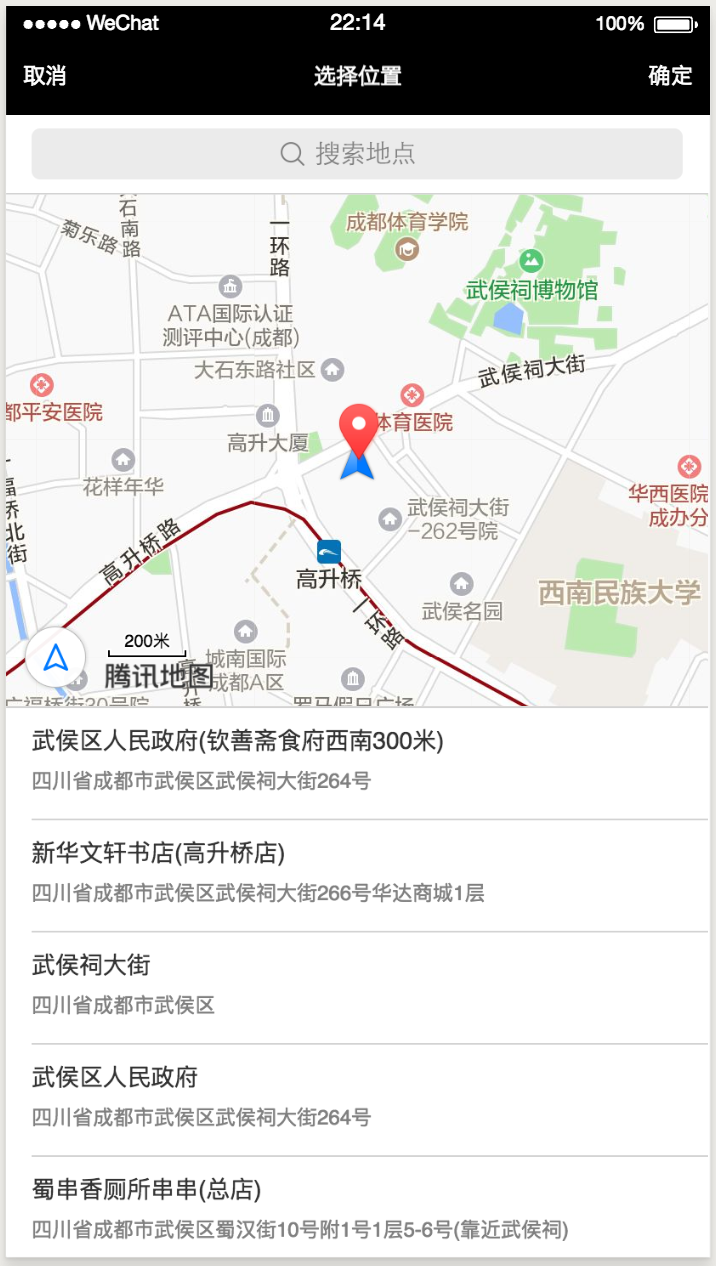
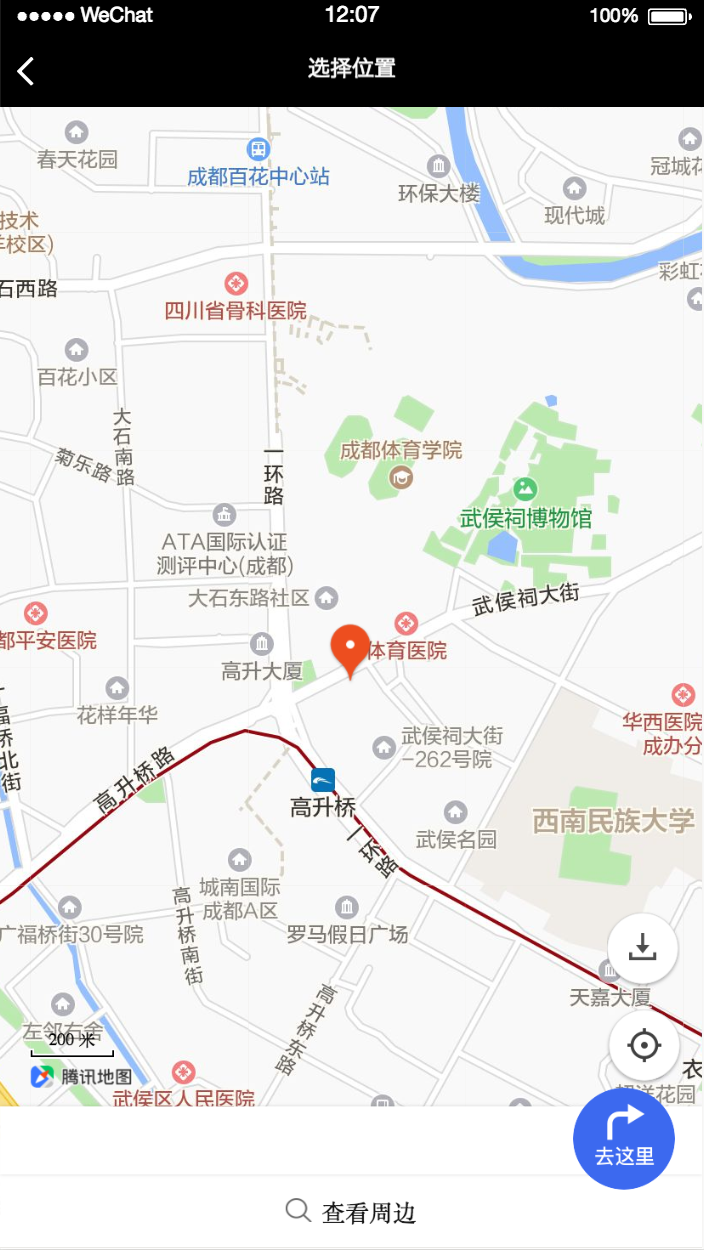
update

diff --git a/pages/index/index.js b/pages/index/index.js
@@ -17,10 +17,10 @@ Page({
       scope: 'scope.userLocation',
       success(res) {
           console.log(33,res)
-          wx.chooseLocation({
-            success: function(res) {
-              console.log(44,res)
-            },
+          wx.openLocation({
+            latitude: 30.64242,
+            longitude: 104.04311,
+            scale: 28
           })
       },
       fail(err) {

diff --git a/README.md b/README.md
@@ -1,2 +1,2 @@
-# MP-chooseLocation
+# MP-openLocation
 ![](https://github.com/pitipon/MP-chooseLocation/blob/master/screenshot/pic.png)
